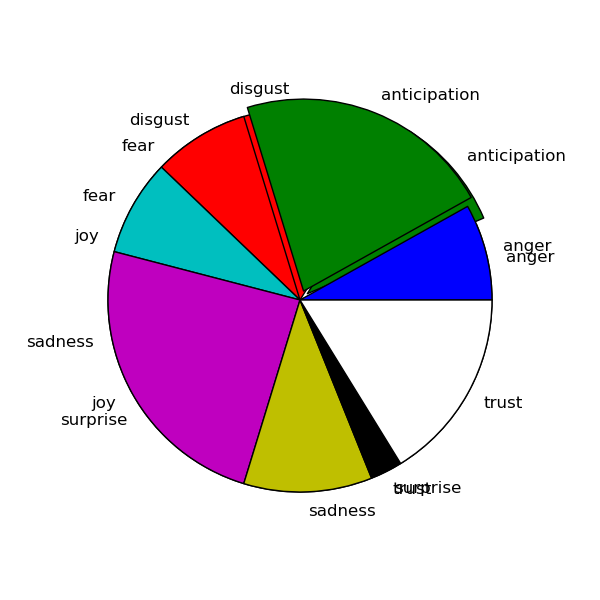
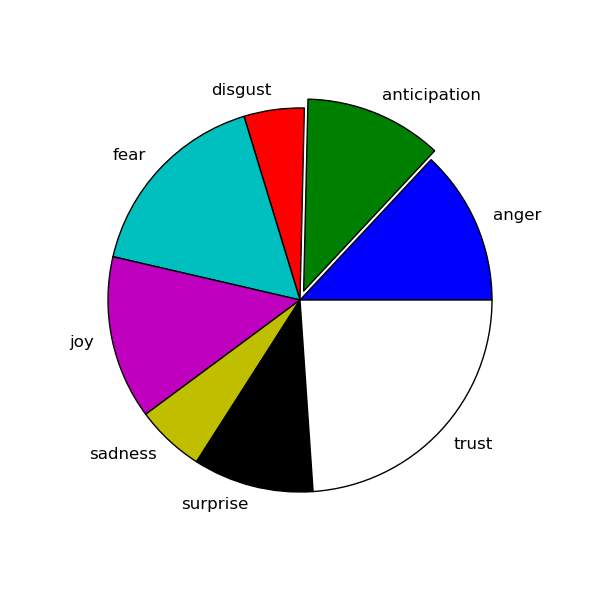
second commit

diff --git a/tweet_sentiment_vis/templates/emotion.html b/tweet_sentiment_vis/templates/emotion.html
@@ -22,7 +22,7 @@
         <div class="navbar-collapse collapse">
           <form class="navbar-form navbar-right" role="form" action="/emotion" method="get">
             <div class="form-group">
-              <input type="text" placeholder="{{ q }}" class="form-control" name="q">
+              <input type="text" placeholder="{{q}}" class="form-control" name="q">
             </div>
              <button type="submit" class="btn btn-primary">Update</button>
           </form>
@@ -40,7 +40,7 @@
         <ul class="dropdown-menu" role="menu" aria-labelledby="myTabDrop1">
           <li><a href="#dropdown3" tabindex="-1" data-toggle="tab"> Raw Tweets </a></li>
           <li><a href="#dropdown4" tabindex="-1" data-toggle="tab"> Sentiment Table </a></li>
-          <li><a href="#dropdown5" tabindex="-1" data-toggle="tab"> Topic tag cloud </a></li>
+          <li><a href="#dropdown5" tabindex="-1" data-toggle="tab"> Topics List </a></li>
          
         </ul>
       </li>
@@ -50,6 +50,9 @@
       <div class="tab-pane fade in active" id="home">
         
 <!-- Beginning of Tweets -->
+<br>
+<br>
+<br>
 
    <div class="tweets">
 
@@ -168,6 +171,19 @@
 <!-- Beginning of Sentiments -->
 
 
+<table class="table table-bordered table-striped">
+
+<tr>
+<td>
+<h2>  <span class="label label-success"> Positive </span> {{ ana | posinegi:"up" }} <span class="glyphicon glyphicon-thumbs-up"> </span> </h2>
+</td>
+
+<td>
+ <h2> <span class="label label-danger"> Negative </span>{{ ana | posinegi:"down" }} <span class="glyphicon glyphicon-thumbs-down"> </span> </h2>
+</td>
+</table>
+
+
 <img src="{% static 'images/piechart.png' %}"> </img>
 
 
@@ -184,29 +200,9 @@
         <p>
 <!-- Beginning of Topics -->
 
-{% for t in topics %}
 
-{% if t.resul == '1' %}
+<img src="{% static 'images/tagcloud.png' %}">  </img>
 
-<h1> {{ t.topic }} <span class="label label-default"> {{ t.freq }} </span> </h1>
-{% elif t.resul == '2' %}
-<h2> {{ t.topic }} <span class="label label-default"> {{ t.freq }} </span> </h2>
-
-{% elif t.resul == '3' %}
-<h3> {{ t.topic }} <span class="label label-default"> {{ t.freq }} </span> </h3>
-
-{% elif t.resul == '4' %}
-<h4> {{ t.topic }} <span class="label label-default"> {{ t.freq }} </span> </h4>
-
-{% elif t.resul == '5' %}
-<h5> {{ t.topic }} <span class="label label-default"> {{ t.freq }} </span> </h5>
-
-{% endif %}
-
- 
-
-
-{% endfor %}
 
 
 <!--   End of Topics  -->      
@@ -290,8 +286,29 @@
       <div class="tab-pane fade" id="dropdown5">
         <p>
 <!-- place for processed tag cloud -->
+{% for t in topics %}
 
-<img src="{% static 'images/tagcloud.png' %}">  </img>
+{% if t.resul == '1' %}
+
+<h1> {{ t.topic }} <span class="label label-default"> {{ t.freq }} </span> </h1>
+{% elif t.resul == '2' %}
+<h2> {{ t.topic }} <span class="label label-default"> {{ t.freq }} </span> </h2>
+
+{% elif t.resul == '3' %}
+<h3> {{ t.topic }} <span class="label label-default"> {{ t.freq }} </span> </h3>
+
+{% elif t.resul == '4' %}
+<h4> {{ t.topic }} <span class="label label-default"> {{ t.freq }} </span> </h4>
+
+{% elif t.resul == '5' %}
+<h5> {{ t.topic }} <span class="label label-default"> {{ t.freq }} </span> </h5>
+
+{% endif %}
+
+ 
+
+
+{% endfor %}
 
 <!-- end -->
         </p>

diff --git a/tweet_sentiment_vis/src/lexicon_matcher/Matcher.py b/tweet_sentiment_vis/src/lexicon_matcher/Matcher.py
@@ -10,6 +10,10 @@ from pytagcloud.lang.counter import get_tag_counts
 
 from pylab import *
 
+import os
+
+
+
 ################# extraction of sentiments #######################################
 
 def getDic():
@@ -65,7 +69,7 @@ def remove_repeated_tags(Tweets):
 
 def analyze(Tweets):
       ''' input tweets and it will give you analysis at macro level '''
-
+      os.remove('tweet_sentiment_vis/static/images/piechart.png')
       liss = []
       
       for i in range(10):
@@ -78,6 +82,7 @@ def analyze(Tweets):
                  liss[t] += 1
  
       figure(1,figsize=(6,6))
+      clf()
       ax = axes([0.1,0.1,0.8,0.8])
 
       labels = 'anger','anticipation','disgust','fear','joy','sadness','surprise','trust'
@@ -86,6 +91,8 @@ def analyze(Tweets):
       explode = (0,0.05,0,0,0,0,0,0)
       
       pie(fracs,explode=explode,labels=labels)
+      
+
       savefig('tweet_sentiment_vis/static/images/piechart.png')
       return liss
 
@@ -163,13 +170,19 @@ def extract_topics(tweets):
        
         return topicslist
 
+import re
+
 
 def get_string(topics):
+        avoidlist = ["http","http...","htt.."]
         s =""
         for t in topics:
           for i in range(t.freq):
-            if t.resul=='1' or t.resul=='2':
-             s = s + t.topic
+            if t.resul=='1' and t.resul=='2':
+             if t.topic not in avoidlist:
+              (t.topic).replace(".","")
+              t.topic = re.sub('[\s]+', ' ', t.topic)
+              s = s + t.topic + " "
         return s
 
 
@@ -182,6 +195,7 @@ def match():
      label_sentiments(Tweets)
      
      ana = analyze(Tweets)
+     
 
      topics = extract_topics(Tweets)
   
@@ -190,8 +204,9 @@ def match():
      s = get_string(topics)
 
      tags = make_tags(get_tag_counts(s))
- 
-     create_tag_image(tags,'tweet_sentiment_vis/static/images/tagcloud.png',size=(2000,1000))     
+
+    
+     create_tag_image(tags,'tweet_sentiment_vis/static/images/tagcloud.png',size=(1000,500))     
 
 
      return [Tweets,ana,topics]

diff --git a/tweet_sentiment_vis/src/lexicon_matcher/TweetPreProcessor.py b/tweet_sentiment_vis/src/lexicon_matcher/TweetPreProcessor.py
@@ -23,22 +23,26 @@ def ravikirajprocessing(tweet_text):
         #Convert @username to AT_USER
         tweet_text = re.sub('@[^\s]+','AT_USER',tweet_text)
         
+      
         puncs = ['!',',','(',')','?','.','_','/',';',':','&','-','~','`','|',"'",'"','+','=','[',']','<','>','*','^','$']
         
         news = ""
         for c in tweet_text:
              if c in puncs:
                pass
+             elif c=='.':
+               pass
              else:
                news = news + c
-        tweet_text = news                    
+        tweet_text = news
+                    
+        tweet_text.replace("."," ")
 
-        
         #Remove additional white spaces
         tweet_text = re.sub('[\s]+', ' ', tweet_text)
         #Replace #word with word
         tweet_text = re.sub(r'#([^\s]+)', r'\1', tweet_text)
-        tweet_text = re.sub(r'([^\s]*)([.])+([^\s]*)', r'\1', tweet_text)
+       
         #trim
         tweet_text = tweet_text.strip('\'"')
         return tweet_text

diff --git a/tweet_sentiment_vis/views.py b/tweet_sentiment_vis/views.py
@@ -18,6 +18,7 @@ def emotion(request):
         sentiments = ans[0]
         ana = ans[1]
         topics = ans[2]
+        
         return render(request,'emotion.html',{'tweetlist':tweetlist,'q':q,'sentiments':sentiments,'ana':ana,'topics':topics})
 
      else:

diff --git a/tweet_sentiment_vis/src/twitter_handler/Fetcher.py b/tweet_sentiment_vis/src/twitter_handler/Fetcher.py
@@ -14,7 +14,7 @@ def fetch(q):
       api = tweepy.API(auth)
 
 
-      raw_tweets = api.search(q)
+      raw_tweets = api.search(q,count=100)
 
       tweetlist = []
       all_objects = TweetObject.objects.all()
